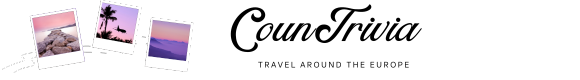
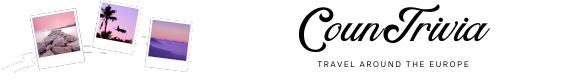
Css muokkausta

Changed region(s): [[0.3724, 0.05, 0.869, 0.65], [0.4345, 0.75, 0.8069, 0.85]]

diff --git a/index.html b/index.html
@@ -31,7 +31,7 @@
         </nav>
 
         <header>
-            <img src="img/CounTrivia.png" alt="CountTriviaHeader" class="center"></img>
+            <img src="img/CounTrivia3.png" alt="CountTriviaHeader" class="center"></img>
     </header>
 
 <section class="container">
